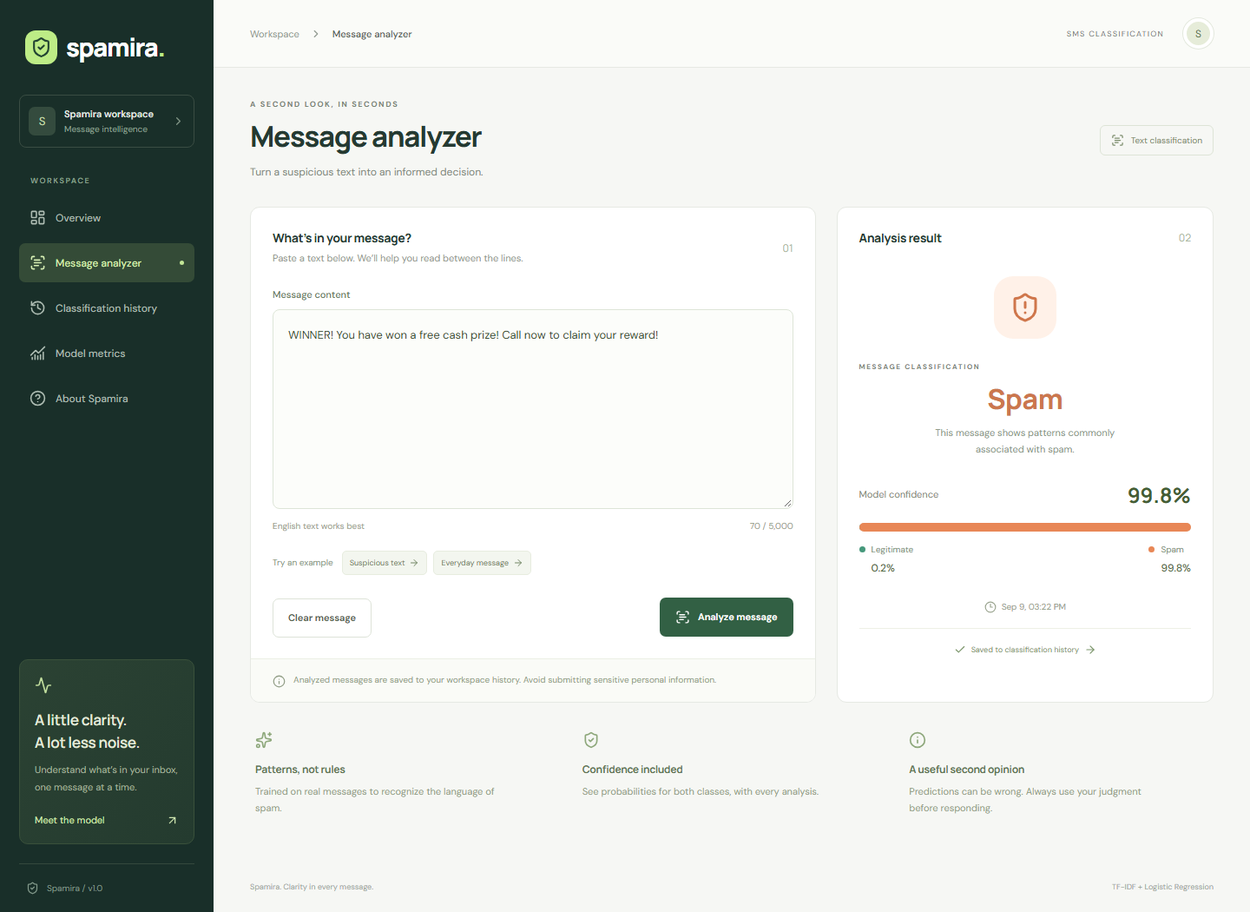
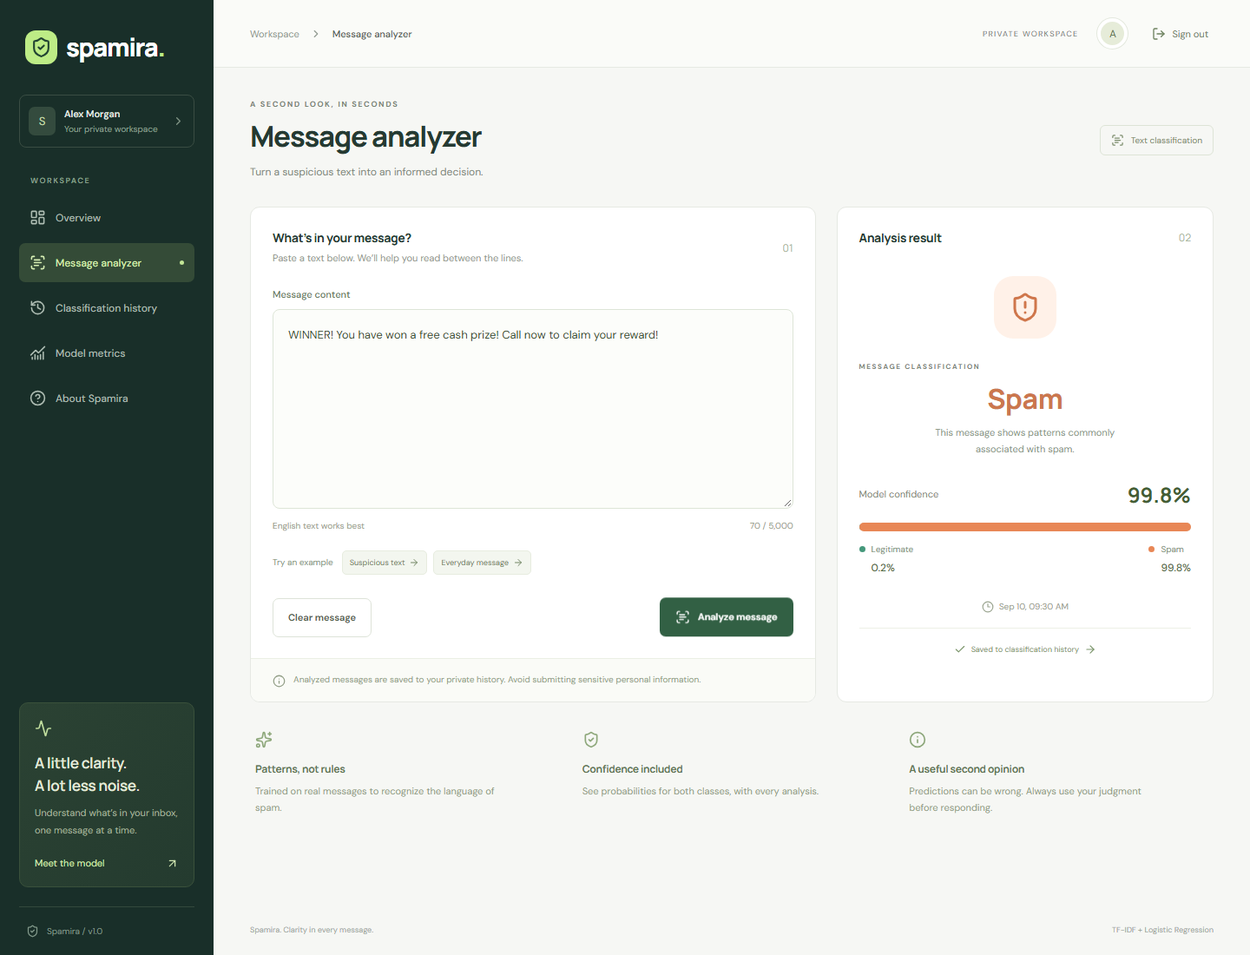
docs: document accounts, guest limits and deployment verification

diff --git a/docs/api.md b/docs/api.md
@@ -2,15 +2,36 @@
 
 Default API base: `http://localhost:5080`. Swagger UI: `/swagger`; OpenAPI JSON: `/openapi/v1.json`.
 
-## Classify a message
+## Accounts and CSRF
 
-`POST /api/classifications`
+Every POST requires an `X-CSRF-TOKEN` header. First fetch `GET /api/auth/csrf`, preserve its cookie, and send its `token` value in that header. Fetch a fresh token after sign-in or sign-out. Browser requests use credentials; HTTP-only session cookies are never stored in local storage. Swagger mutations also require the token header and cookie.
 
-```json
-{ "message": "Hey, are we still meeting for lunch tomorrow?" }
+| Endpoint | Request / response |
+| --- | --- |
+| `POST /api/auth/register` | `{ "displayName": "Alex", "email": "alex@example.com", "password": "<your-password>" }` returns `201`, user object and sign-in cookie |
+| `POST /api/auth/login` | `{ "email": "alex@example.com", "password": "<your-password>", "rememberMe": false }` returns `200`, user object and cookie |
+| `POST /api/auth/logout` | `{}` returns `{ "signedOut": true }` and expires the cookie |
+| `GET /api/auth/session` | `{ "user": { "id": "...", "displayName": "Alex", "email": "alex@example.com" }, "guestQuota": null }` |
+| `GET /api/auth/csrf` | `{ "token": "..." }` and anti-forgery cookie |
+
+Guest session response: `{ "user": null, "guestQuota": { "limit": 10, "used": 2, "remaining": 8, "resetsAt": "2026-09-11T00:00:00Z" } }`. Ten successful analyses per network address per UTC day. Guest messages are never saved. Members have no daily guest cap. Invalid messages and failed predictions do not consume allowance.
+
+Names: 1–80 characters after trimming. Emails: at most 254 characters. Passwords: 10–128 characters including uppercase, lowercase, and a number. Five incorrect password attempts lock the account for 15 minutes. Login and registration share 20 requests per minute per address. Sessions last up to seven days with sliding renewal; `rememberMe` makes the cookie persist across browser sessions.
+
+See `scripts/smoke_test.py` for a working cookie-aware client. From the repository root:
+
+```python
+from scripts.smoke_test import Client
+client = Client("http://localhost:5080")
+result = client.call("/api/classifications", {"message": "See you tomorrow"})
+print(result["label"], result["spamProbability"])
 ```
 
-Successful response: `201 Created`, with a `Location` header pointing to the stored record.
+## Classification
+
+`POST /api/classifications` with `{ "message": "Hey, are we still meeting for lunch tomorrow?" }`.
+
+Members receive `201 Created` and a `Location` header. Guests receive `200 OK`, `savedToHistory: false`, and an ephemeral UUID that cannot be read back.
 
 ```json
 {
@@ -20,15 +41,18 @@ Successful response: `201 Created`, with a `Location` header pointing to the sto
   "confidence": 0.96,
   "spamProbability": 0.04,
   "legitimateProbability": 0.96,
-  "createdAt": "2026-09-09T10:00:00Z",
+  "createdAt": "2026-09-10T10:00:00Z",
   "processingTimeMs": 12,
-  "modelVersion": "sms-tfidf-lr-1-7d039a24"
+  "modelVersion": "sms-tfidf-lr-1-7d039a24",
+  "savedToHistory": true
 }
 ```
 
-Values above illustrate the contract; actual probabilities depend on message content and model version. Message length must be 1–5,000 characters and must not be whitespace only. Stored messages preserve internal whitespace and case. `confidence` and both probability fields are fractions from 0 to 1. The UI formats them as percentages. `processingTimeMs` measures the ML call, excluding the database save.
+Probabilities above illustrate the contract. Messages must contain 1–5,000 characters and cannot be whitespace-only. Internal case and whitespace are preserved. Probability fields and confidence are fractions from 0 to 1. Processing time covers quota reservation and the ML call, excluding persistence. An abuse guard limits all clients, including members, to 60 analyses per minute per address.
 
-## History
+## Private history and dashboard
+
+These endpoints require sign-in (`401` otherwise). Queries always filter by the current account. Another account’s record returns `404`.
 
 `GET /api/classifications?page=1&pageSize=10&label=spam&search=prize&sort=desc`
 
@@ -37,39 +61,41 @@ Values above illustrate the contract; actual probabilities depend on message con
 | `page` | 1 | 1–1,000,000 |
 | `pageSize` | 10 | 1–100 |
 | `label` | none | `spam` or `legitimate` |
-| `search` | none | Case-insensitive substring, up to 5,000 characters |
+| `search` | none | Case-insensitive substring, at most 5,000 characters |
 | `sort` | `desc` | `asc` or `desc`, by UTC analysis date |
 
-Response: `{ "items": [], "page": 1, "pageSize": 10, "totalCount": 0, "totalPages": 0 }`. Equal timestamps use UUID as a stable secondary sort key. An out-of-range page returns an empty list.
+Response: `{ "items": [], "page": 1, "pageSize": 10, "totalCount": 0, "totalPages": 0 }`. UUID is a stable secondary sort key. An out-of-range page returns no items.
 
-`GET /api/classifications/{id}` returns one record or `404`.
+`GET /api/classifications/{id}` returns one owned record or `404`.
 
-## Dashboard
+`GET /api/dashboard/stats` returns personal `totalAnalyzed`, `spamCount`, `legitimateCount`, `spamPercentage` (0–100), up to five `recentClassifications`, and `modelStatus` (`online` or `offline`).
 
-`GET /api/dashboard/stats`
+## Metrics and health
 
-Returns `totalAnalyzed`, `spamCount`, `legitimateCount`, `spamPercentage` (0–100), `recentClassifications` (up to five), and `modelStatus` (`online` or `offline`). Statistics reflect persisted classifications.
+`GET /api/model/metrics` is public and returns `accuracy`, `precision`, `recall`, `f1Score` (0–1), `confusionMatrix`, `labels`, `modelVersion`, `trainedAt`, sample counts, and training metadata. Matrix rows are actual classes, columns predicted classes; both use `["legitimate", "spam"]`. Spam is positive.
 
-## Model metrics
-
-`GET /api/model/metrics`
-
-Returns `accuracy`, `precision`, `recall`, `f1Score` (all 0–1), `confusionMatrix`, `labels`, `modelVersion`, `trainedAt`, `trainingSamples`, `testSamples`, and training metadata. Matrix rows are actual labels, columns predicted labels, both ordered `["legitimate", "spam"]`. Spam is the positive class.
-
-## Health
-
-`GET /health` returns `{ "status": "healthy", "database": true, "model": true }`. A failing dependency changes the status to `degraded` and HTTP status to `503`.
+`GET /health` returns `{ "status": "healthy", "database": true, "model": true }`, or `503` with status `degraded` if a dependency fails.
 
 ## Errors
 
-Application errors use a Problem Details body with `status`, `title`, `detail`, and `traceId`. Validation returns `400`; dependency failures return `503`; rate limiting returns `429`. Normal responses never include internal exception details.
+Application errors use Problem Details with `status`, `title`, `detail`, and `traceId`. Authorization failures can have an empty body. No internal exception details are returned.
+
+| Status | Meaning |
+| --- | --- |
+| 400 | Invalid input |
+| 401 | Missing/invalid sign-in or locked account |
+| 403 | Missing or invalid CSRF token |
+| 404 | Missing record or record belongs to another account |
+| 409 | Account cannot be created with these details |
+| 429 | Guest daily allowance or minute rate limit reached |
+| 503 | Dependency unavailable |
 
 ## Internal ML service
 
-Default base: `http://localhost:8000`; automatic docs at `/docs`.
+Default base: `http://localhost:8000`, docs at `/docs`. Browser clients must use the main API for account scoping, quotas, and persistence.
 
-- `POST /predict`: `{ "text": "message" }` → `label`, `confidence`, `spam_probability`, `legitimate_probability`, `model_version`.
-- `GET /metrics`: current evaluation JSON.
-- `GET /health`: readiness and loaded model version.
+- `POST /predict`: `{ "text": "message" }` returns `label`, `confidence`, `spam_probability`, `legitimate_probability`, `model_version`.
+- `GET /metrics`: model evaluation JSON.
+- `GET /health`: readiness and model version.
 
-The internal service uses snake_case prediction fields; the application API maps them to camelCase. FastAPI returns `422` for invalid prediction input. Browser clients should use the application API so classifications are persisted.
+FastAPI returns `422` for invalid input. The application API maps snake_case prediction fields to camelCase.

diff --git a/docs/architecture.md b/docs/architecture.md
@@ -1,6 +1,6 @@
 # Architecture
 
-Spamira has one public application API. The React client sends requests to ASP.NET Core, which calls the internal FastAPI prediction service and persists successful classifications in PostgreSQL.
+Spamira has one public application API. The React client sends requests to ASP.NET Core, which calls the internal FastAPI prediction service and persists successful member classifications in PostgreSQL. Guest message text and results are not saved.
 
 ```mermaid
 flowchart LR
@@ -14,10 +14,10 @@ flowchart LR
 ## Request lifecycle
 
 1. The analyzer validates a nonblank message of up to 5,000 characters.
-2. The API repeats validation, trims surrounding whitespace, and calls `/predict` through an injected `HttpClient` with a 10-second timeout.
+2. The API validates CSRF and the session, repeats input validation, trims surrounding whitespace, reserves one daily guest slot when needed, and calls `/predict` through an injected `HttpClient` with a 10-second timeout.
 3. FastAPI applies the preprocessing function embedded in the saved sklearn pipeline. `predict_proba` supplies both probabilities; the larger one determines the classification and confidence.
-4. The API validates the prediction contract, stores the message and result using EF Core, and returns `201 Created` only after persistence succeeds.
-5. Dashboard and history queries read the same persisted table. Metrics are fetched from the active ML service, so the UI reflects its currently loaded model.
+4. The API validates the prediction contract. Members receive `201 Created` after saving the result with their account ID. Guests receive `200 OK` without persistence. Failed inference refunds the reserved slot.
+5. Dashboard and history require sign-in and filter by the current account ID on every query, including individual record lookups. Metrics are fetched from the active ML service, so the UI reflects its currently loaded model.
 
 The client uses a 15-second request deadline and cancels obsolete GET requests during navigation or filtering. An analysis is not automatically retried: if a connection is lost after a save, inspect history before retrying to avoid duplicate records.
 
@@ -34,11 +34,19 @@ The client uses a 15-second request deadline and cancels obsolete GET requests d
 
 ## Persistence
 
-`ClassificationResults` stores UUID, original trimmed message, label, confidence, both probabilities, UTC timestamp, ML processing duration, and model version. PostgreSQL constraints restrict labels and probability ranges. Date and label/date indexes support history queries. Search uses a parameterized, case-insensitive substring match; a trigram index can be introduced if message volume warrants it.
+`ClassificationResults` stores UUID, original trimmed message, label, confidence, both probabilities, UTC timestamp, ML processing duration, and model version, and nullable account ID. PostgreSQL constraints restrict labels and probability ranges. An account/date index supports private history queries; date and label/date indexes also remain. Search uses a parameterized, case-insensitive substring match; a trigram index can be introduced if message volume warrants it.
 
 Creation timestamps use microsecond precision to match PostgreSQL, keeping the creation response identical to subsequent reads.
 
 Docker Compose applies migrations at startup for a single API instance. For multiple instances, apply migrations as a deployment step and disable `Database__AutoMigrate`. The initial migration and snapshot are committed. Never edit a deployed migration; create a new one.
+
+## Accounts and guest allowance
+
+ASP.NET Core Identity stores salted password hashes and manages login lockout. HTTP-only SameSite=Lax cookies carry protected sessions; all API mutations validate CSRF tokens. Responses use Cache-Control: no-store. The client clears page state when accounts change and refreshes the session on window focus, authorization failure, and the guest reset time.
+
+GuestQuotas keys combine the SHA-256 hash of the normalized IP and UTC date. Raw IPs and guest messages are not stored in this table. Atomic conditional SQL increments prevent concurrent requests from exceeding ten reservations; failed inference refunds its slot. NAT users share an allowance. This is an address-based quota, not a verified person count. Operators may remove old quota rows after their UTC day ends and in-flight requests finish.
+
+The migration preserves previous unowned classifications, excluded from every account query. Database-level account deletion cascades to owned classifications. User-facing deletion, email verification, and password recovery are outside the current API.
 
 ## Failure behavior
 
@@ -48,7 +56,10 @@ Docker Compose applies migrations at startup for a single API instance. For mult
 | Invalid query/filter/sort | `400` |
 | ML timeout, unavailable service, malformed prediction | `503`, no classification saved |
 | Database query/save failure | `503`, no successful save reported |
-| Unknown classification UUID | `404` |
+| Unknown or another account’s classification UUID | `404` |
+| Guest requests history/statistics | `401` |
+| Invalid or missing CSRF | `403` |
+| Guest daily allowance exhausted | `429`, sign in or wait until 00:00 UTC |
 | More than 60 analyses per minute per API-visible address | `429` |
 | Unexpected application error | Safe `500` with trace ID; details in server logs |
 | Missing model artifacts | ML health and prediction return `503` |
@@ -57,7 +68,11 @@ Docker Compose applies migrations at startup for a single API instance. For mult
 
 ## Deployment scope
 
-This is a shared workspace without authentication. Compose binds exposed ports to loopback by default. Before exposing it publicly, provide HTTPS and access control at a trusted reverse proxy, define message-retention policy, and arrange database backups. Do not trust forwarded client-IP headers from arbitrary senders. With the provided Nginx proxy, API-visible rate limiting is shared across frontend users.
+Compose binds exposed ports to loopback. Before public deployment, provide HTTPS, enable `AUTH_SECURE_COOKIES`, define retention, and arrange backups. Persist the restricted `auth-keys` volume alongside database backups; it protects session cookies and must be shared across API replicas. Local development uses the OS user profile key store unless `Auth__DataProtectionPath` is configured.
+
+Nginx resolves the backend through Docker DNS with a five-second cache, so an API restart or container replacement can change its IP without requiring a frontend restart. Nginx overwrites forwarded IP and scheme headers. The API trusts its explicit internal address (`FRONTEND_INTERNAL_IP`, default `172.30.250.10`). Change `NETWORK_SUBNET` and that IP together if the subnet overlaps an existing network. Arbitrary remote senders cannot supply trusted client-IP headers. Vite forwarding is trusted through loopback.
+
+If adding a TLS load balancer before Nginx, configure real-IP handling for only that balancer and preserve the original HTTPS scheme through the trusted chain. Otherwise the quota is shared under the balancer address. Keep direct backend and ML ports internal in a public deployment.
 
 The frontend uses a same-origin `/api` proxy. Its API base is a build-time Vite setting. The bundled Nginx content policy permits same-origin API calls; an external API origin also requires an explicit policy and CORS update. Fonts are served by Google Fonts with local sans-serif fallbacks.
 

diff --git a/README.md b/README.md
@@ -4,13 +4,15 @@
 
 Machine learning-powered web application for real-time spam detection and text message classification.
 
-Spamira turns a text message into a clear classification, a confidence score, and a probability breakdown. A shared dashboard brings classification history and measured model performance into one workspace.
+Spamira turns a text message into a clear classification, a confidence score, and a probability breakdown. Personal accounts bring private classification history, activity statistics, and measured model performance into one workspace.
 
 ![Spamira message analyzer](docs/screenshots/analyzer-desktop.png)
 
 ## Features
 
 - **Message analyzer:** spam or legitimate results with both class probabilities, confidence, and timestamp.
+- **Free accounts:** email/password registration, sign-in, secure cookie sessions, and private history.
+- **Guest access:** 10 successful analyses per UTC day per network address, without saved messages; signed-in accounts have no daily guest cap.
 - **Workspace overview:** persisted message totals, spam rate, recent activity, and model availability.
 - **Classification history:** full message expansion, search, label filtering, pagination, and date sorting.
 - **Transparent model metrics:** accuracy, precision, recall, F1-score, confusion matrix, and training metadata.
@@ -69,7 +71,7 @@ docker compose logs -f
 docker compose down
 ```
 
-`down` preserves history. `docker compose down -v` deletes the database volume and all stored classifications.
+`down` preserves accounts, history, and session encryption keys. `docker compose down -v` deletes these volumes and their contents.
 
 ## Local development
 
@@ -179,7 +181,7 @@ cd ml-service
 python -m pytest -q
 cd ..
 
-# Running-stack smoke test: creates two real classification records
+# Running-stack smoke test: creates test accounts and two real classification records
 python scripts/smoke_test.py
 
 # Browser tests against a running frontend and complete backend
@@ -190,13 +192,20 @@ npm run test:e2e
 
 Browser tests default to port 5173. Set `E2E_BASE_URL=http://localhost:3000` for Compose (PowerShell: `$env:E2E_BASE_URL='http://localhost:3000'`). Tests cover desktop and mobile workflows and save real analysis records in the target deployment. Use a development database.
 
-The CI workflow builds each layer, runs tests, starts the full Compose stack, checks real predictions, runs browser tests, and verifies message counts after restarting the database and API.
+The CI workflow builds each layer, runs tests, starts the full Compose stack, checks real predictions, runs browser tests, and verifies private history and the account session after restarting the database and API.
+
+To verify concurrent guest enforcement, run `python scripts/verify_guest_quota.py` against a test deployment. This consumes the remaining guest allowance for the current network and UTC day.
 
 ## API overview
 
 | Method | Endpoint | Purpose |
 | --- | --- | --- |
-| POST | `/api/classifications` | Analyze and persist a message |
+| POST | `/api/auth/register` | Create an account and sign in |
+| POST | `/api/auth/login` | Sign in with email and password |
+| POST | `/api/auth/logout` | Sign out |
+| GET | `/api/auth/session` | Current account or remaining guest allowance |
+| GET | `/api/auth/csrf` | Token required for POST requests |
+| POST | `/api/classifications` | Analyze; save only for signed-in accounts |
 | GET | `/api/classifications` | Paginated, searchable, filtered history |
 | GET | `/api/classifications/{id}` | Read one result |
 | GET | `/api/dashboard/stats` | Totals, spam rate, recent results, model status |
@@ -228,9 +237,13 @@ Spamira/
 
 ## Deployment notes
 
-Spamira is a shared workspace without sign-in. Compose exposes ports on loopback. Use a trusted network, or add HTTPS and access controls at your reverse proxy before publishing a deployment. Messages are retained in PostgreSQL until an operator removes them; define a retention and backup policy for your deployment.
+Accounts own their saved history and dashboard statistics. Guests cannot read history, and their message text is not stored. Guest allowances reset at 00:00 UTC and are counted by a hashed network address in PostgreSQL. People behind the same NAT share an allowance; clearing cookies does not reset it. Changing networks can change the allowance, so anonymous quotas are not a per-person identity guarantee. Invalid input and failed predictions do not consume the allowance. Signed-in users have no daily quota; a 60-requests-per-minute abuse guard still applies.
 
-Classification probabilities are model estimates, not guarantees. English SMS is the intended input; unfamiliar language and new spam patterns can reduce accuracy. Do not submit sensitive personal data to a shared instance.
+Compose exposes ports on loopback. Use HTTPS and set `AUTH_SECURE_COOKIES=true` before publishing. Keep the `auth-keys` volume alongside database backups so existing sessions survive restarts. The configured frontend proxy overwrites client-IP headers, and the API trusts its explicit internal address. Configure any additional reverse proxy deliberately; see [architecture](docs/architecture.md). Messages are retained until an operator removes them; define a retention and backup policy.
+
+The account migration preserves previous unowned classifications but does not expose or assign them to new accounts. Email verification and password recovery are not included in this release.
+
+Classification probabilities are model estimates, not guarantees. English SMS is the intended input; unfamiliar language and new spam patterns can reduce accuracy. Avoid submitting sensitive personal data.
 
 Read [architecture and operational behavior](docs/architecture.md) for configuration boundaries, timeouts, health checks, and persistence details.
 

diff --git a/docs/verification.md b/docs/verification.md
@@ -1,29 +1,33 @@
 # Verification
 
-The application has been exercised locally against the trained model, ASP.NET Core API, PostgreSQL 17, and the React frontend.
+The account release has been exercised against real TF-IDF/Logistic Regression inference and PostgreSQL, using both local processes and the complete Docker Compose deployment on Windows with WSL 2.
 
 | Check | Result |
 | --- | --- |
 | Frontend production build | Passed |
-| Frontend component/service tests | 6 passed |
-| Backend Release build | Passed, no warnings |
-| Backend unit/integration tests | 20 passed |
+| Frontend component/service/session tests | 8 passed |
+| Backend Release build | Passed |
+| Backend unit/integration tests | 29 passed |
 | Python model and service tests | 9 passed |
-| Browser end-to-end tests | 4 passed across desktop and mobile |
-| Real API → ML → PostgreSQL smoke test | Passed |
+| Browser end-to-end scenarios | 4 passed across desktop and mobile |
+| Account registration, login, logout, and private history | Passed with real services |
+| Isolation between different accounts | Passed |
+| Guest requests never stored in history | Passed |
+| Guest allowance reset at UTC midnight | Passed with controlled server clock |
+| Concurrent PostgreSQL guest allowance | Passed; exactly 10 successes from 12 requests with a fresh allowance |
 | EF Core migration snapshot consistency | Passed |
-| EF Core PostgreSQL SQL generation | Passed |
-| Migration application on a fresh PostgreSQL database | Passed |
-| History retained after PostgreSQL and API restart | Passed; all 14 existing records retained |
-| Docker Compose configuration validation | Passed |
-| Container image builds and complete Compose startup | Passed on Linux CI |
-| Smoke test and browser tests against Docker deployment | Passed |
-| Docker database and API restart persistence | Passed |
+| Account migration on an existing PostgreSQL database | Passed; previous unowned records retained and hidden |
+| Docker Compose configuration and image builds | Passed |
+| Complete Compose startup | All four services healthy |
+| Browser scenarios through Nginx | Passed |
+| Session and private history after PostgreSQL/API restart | Passed through Nginx |
 
-The smoke test checks real spam and legitimate predictions, both probabilities, exact equality between the creation response and persisted record, search, filtering, dashboard totals, model metrics, and invalid input rejection. Browser tests use live services and cover the analyzer, history, metrics, dashboard, and information page.
+The smoke test creates independent accounts and verifies real spam/legitimate predictions, both probabilities, exact persisted-result equality, search, filters, private statistics, model metrics, validation, and account isolation. Its optional saved-session mode verifies that cookies and history survive service restarts. Temporary state files contain a session cookie and should be kept private.
 
-The complete [GitHub Actions verification run](https://github.com/OleksiiMalanii/Spamira/actions/runs/34350598441) passed for application commit `1cdbaf7`. It built all images, started the complete Compose stack on Linux, ran real API and browser checks, and confirmed unchanged message counts after restarting PostgreSQL and the API.
+The concurrent quota script launches twelve requests and verifies the database-enforced allowance using fresh cookie jars. It consumes the guest allowance on the test network for that UTC day. Backend tests separately exercise midnight reset, validation and inference-failure refunds, absent CSRF, password hashing, lockout, duplicate registration, and member access beyond ten analyses. Frontend tests cover stale session responses that finish after login.
 
-The local Windows host requires a restart after enabling Virtual Machine Platform and reports unavailable firmware virtualization. Docker Desktop and WSL are installed. The application was additionally verified using local processes and PostgreSQL before that restart.
+Browser tests use live services for guest classification and account registration, private history, logout, sign-in, metrics, dashboard, and responsive layout. The logout test waits for the completed sign-out state before navigating.
 
-Run the commands in the README to reproduce the checks. Test counts and the reference model metrics describe this revision.
+Nginx resolves backend addresses through Docker DNS with a short cache. Restart verification checks the public frontend proxy, which catches stale upstream routing as well as database or session persistence failures.
+
+Run the commands in the README to reproduce these checks. The [continuous integration workflow](https://github.com/OleksiiMalanii/Spamira/actions/workflows/ci.yml) also trains the model, builds all container images, tests the complete stack, exercises concurrent guest requests, and verifies restart persistence.
